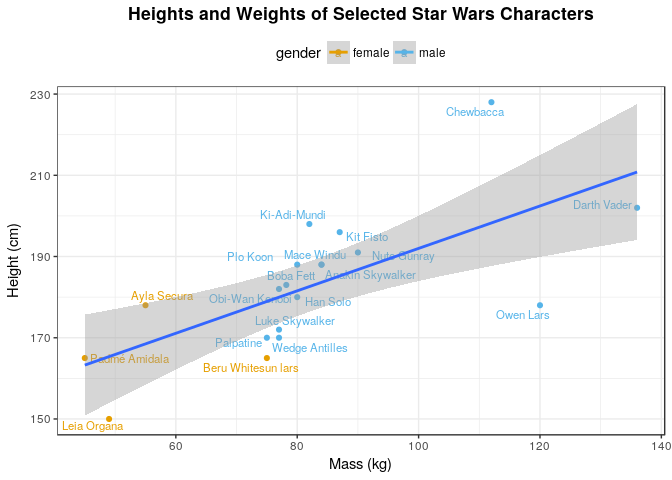
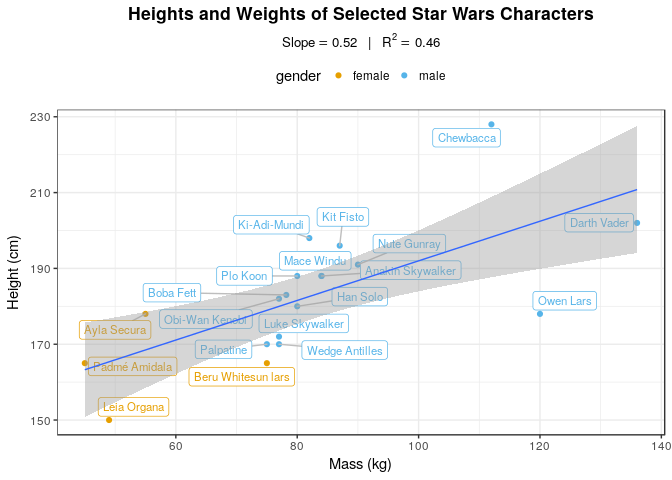
scatter-stats-and-labels-knit

diff --git a/Plot_Assortment.md b/Plot_Assortment.md
@@ -1,7 +1,7 @@
 Plot Assortment
 ================
 Jesse Cambon
-14 May, 2018
+18 May, 2018
 
 This notebook will demonstrate an assortment of basic ggplots such as bar charts, line charts, and scatter plots.
 
@@ -27,6 +27,7 @@ film_chron_order = c("The Phantom Menace", "Attack of the Clones", "Revenge of t
 # Set default ggplot theme
 theme_set(theme_bw()+
   theme(legend.position = "top",
+            plot.subtitle= element_text(face="bold",hjust=0.5),
             plot.title = element_text(lineheight=1, face="bold",hjust = 0.5)))
 ```
 
@@ -163,7 +164,7 @@ scale_x_continuous(breaks=c(1:7)) +
 scale_fill_manual(values=c(cbPalette[1],cbPalette[3],cbPalette[4])) +
 labs(title='Number of Characters Appearing from Each Species by Film') +
 theme(legend.title = element_blank()) +
-xlab('Episode #') +
+xlab('Episode') +
 ylab('')
 ```
 
@@ -179,30 +180,40 @@ scale_y_continuous(labels=scales::percent) +
 scale_fill_manual(values=rep(cbPalette,1)) +
 labs(title='Percentage of Characters in Each Film by Gender') +
 theme(legend.title = element_blank()) +
-xlab('Episode #') +
+xlab('Episode') +
 ylab('')
 ```
 
 ![](Plot_Assortment_files/figure-markdown_github/unnamed-chunk-2-5.png)
 
 ``` r
+# Linear model
+fit <- lm(height ~ mass, data=starwars_ht_wt)
+coeff <- as.numeric(fit$coefficients[2])
+r_square <- summary(fit)$r.squared
+
 # Scatter plot of heights and weights 
 # Note - group=1 is set in ggplot aes to force geom_smooth to fit
 # both groups
 ggplot(data=starwars_ht_wt,
           aes(x = mass, y = height, color = gender,group=1)) +
 geom_point() +
-geom_text_repel(
+geom_label_repel(
     data = starwars_ht_wt,
     aes(label = name),
     size = 3,
-    nudge_x = 0,
-    nudge_y = 0,
-    segment.color = NA
+    force = 5,
+    box.padding = 0.2, # use this to control label spacing
+    segment.color = 'grey',
+    show.legend = F # need this to fix legend
   ) +
-geom_smooth(method="lm") +
+geom_smooth(method="lm",show.legend=F,size=0.5) +
 scale_color_manual(values=c(cbPalette[2:3])) +
-labs(title='Heights and Weights of Selected Star Wars Characters') +
+labs(title='Heights and Weights of Selected Star Wars Characters',
+     subtitle = bquote(Slope == .(round(coeff,2)) ~ ' | ' ~ R^2  ==  .(round(r_square,2)) )) +
+       
+      # str_c('Slope: ',as.character(round(coeff,2)),'  |  ',
+      #                expression(paste("R"^"2")),as.character(round(r_square,2)))) +
 xlab('Mass (kg)') +
 ylab('Height (cm)')
 ```
